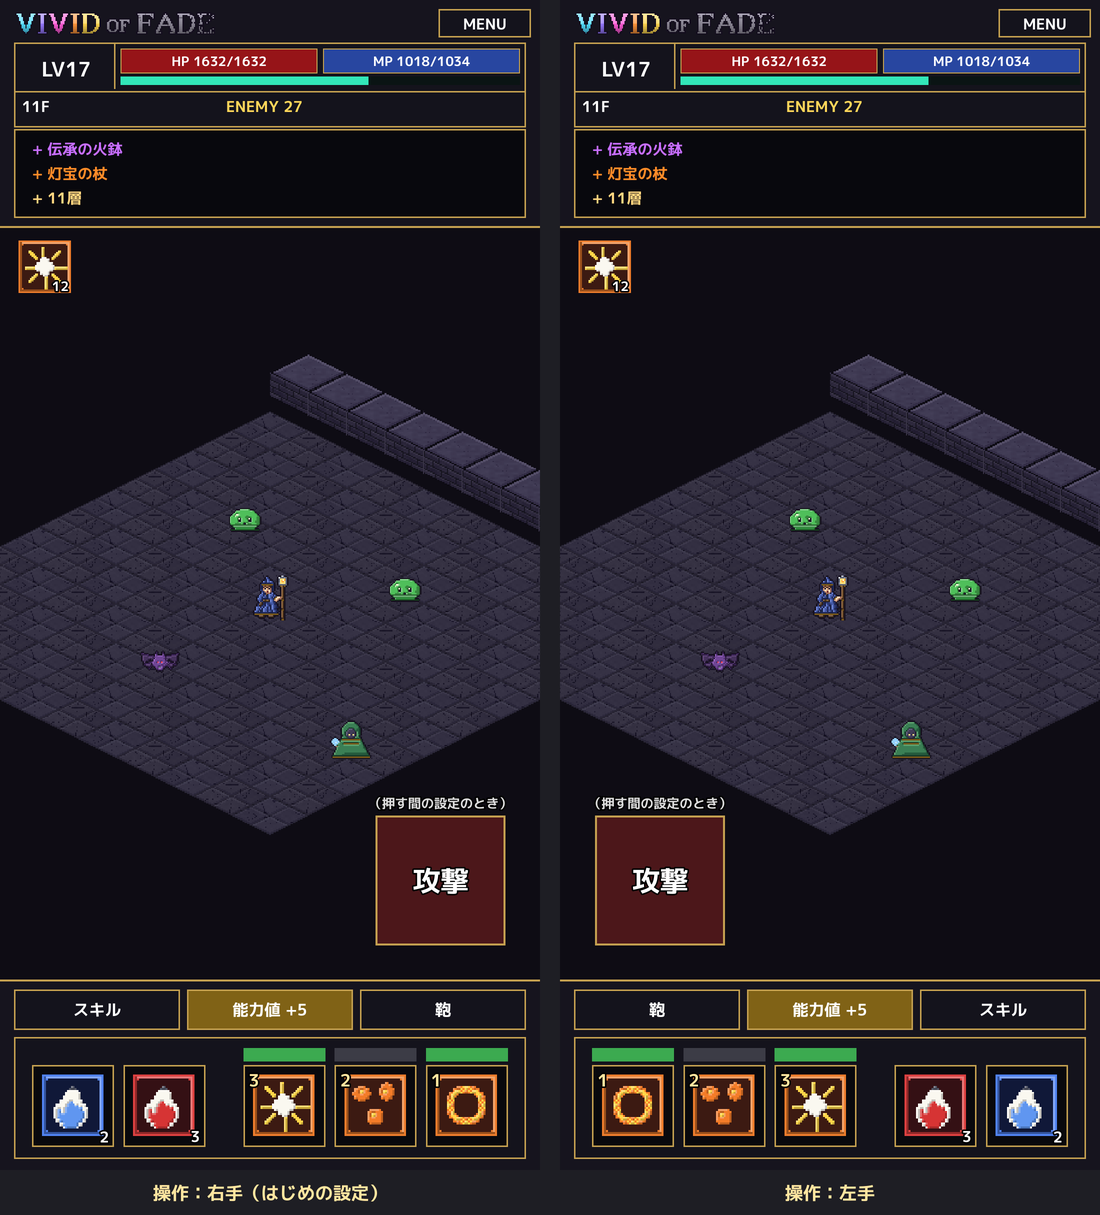
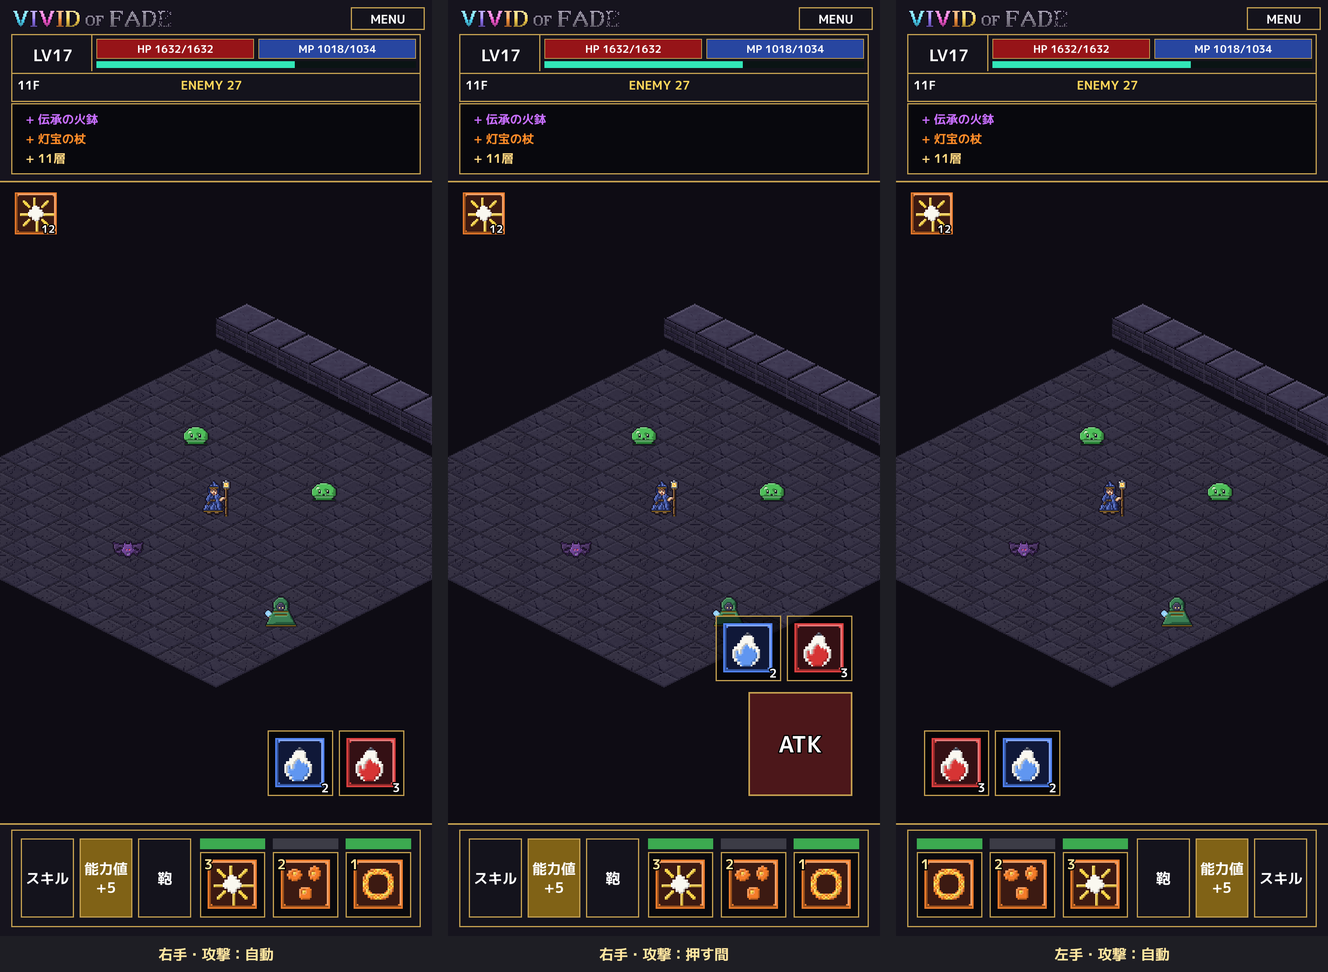
Bottom band as one row: skills on the thumb side, quick buttons opposite
Potions move to just above the band on the thumb side (above the attack
button when attacking is manual). The quick-button row is gone, so the
dungeon view gets taller.

Claude-Session: https://claude.ai/code/session_01XMEo4x59g4Ygvken3HiQNb

diff --git a/Game/Assets/Scripts/UI/Hud.cs b/Game/Assets/Scripts/UI/Hud.cs
@@ -129,20 +129,25 @@ namespace VividOfFade
         }
 
         /// <summary>
-        /// 鞄・能力値・スキルをすぐ開くボタン（GUI 座標）。下の帯の、スキルの段のすぐ上に横に3つ（親指が届く所。MENU を経由しなくてよいように）。
+        /// 鞄・能力値・スキルをすぐ開くボタン（GUI 座標）。スキルと同じ段の、スキルの反対側の空いた所に3つ並べる（スキルに近い方から 鞄・能力値・スキル）。
         /// </summary>
         Rect QuickRect(int i)
         {
-            var sc = ShortcutPanel;
+            var first = SkillRect(0);
+            float s = first.width;
             float gap = BandMargin * 0.8f;
-            float h = Screen.height * 0.034f;
-            float w = (sc.width - gap * 2f) / 3f;
-            int pos = LeftHanded ? i : 2 - i; // 右手なら右から 鞄・能力値・スキル
-            return new Rect(sc.x + pos * (w + gap), sc.y - BandMargin * 0.8f - h, w, h);
+            float left = BandMargin * 2.8f;                                         // 左手のときの並び（スキルが左、ボタンが右）で計算して、右手なら左右を入れかえる
+            float from = left + SkillInfo.Slots * s * (1f + SkillGapK) - s * SkillGapK + gap * 1.5f;
+            float to = Screen.width - left;
+            float w = (to - from - gap * 2f) / 3f;
+            float x = from + i * (w + gap);
+            if (!LeftHanded) x = Screen.width - x - w;
+            float h = s * 1.21f;                                                   // スキルのボタンとオートの帯を合わせた高さ
+            return new Rect(x, Screen.height - (first.y + h), w, h);
         }
 
-        /// <summary>下の帯の上端（GUI 座標）。鞄・能力値・スキルのボタンの段と、ショートカットの区画を含む。</summary>
-        float BottomBandTop => QuickRect(0).y - BandMargin;
+        /// <summary>下の帯の上端（GUI 座標）。ショートカットの区画（スキルと、鞄・能力値・スキルのボタン）を含む。</summary>
+        float BottomBandTop => ShortcutPanel.y - BandMargin * 0.8f;
 
         /// <summary>枠線を描く。</summary>
         public static void Frame(Rect r, Color c, float t = 1f)
@@ -214,22 +219,20 @@ namespace VividOfFade
         public float ViewCenterShift => ((Screen.height - BottomBandTop) - TopBandBottom) / (2f * Screen.height);
 
         /// <summary>
-        /// 下の段のボタン（左からスキル3つ、少しあけて薬2つ）。0〜2 がスキル、3・4 が回復薬・魔力の薬。画面座標（左下原点）。
+        /// スキルのボタン（0〜2）。下の段の、親指の側の端から スキル1・2・3（右手なら右端がスキル1、左手なら左端）。画面座標（左下原点）。
         /// </summary>
         Rect SkillRect(int slot)
         {
-            // ショートカットの区画の幅いっぱいに、スキル3つと薬2つを中央そろえで並べる
-            const float gapK = 0.12f, extraK = 0.35f;     // ボタンどうしの間・スキルと薬の間（ボタンの大きさに対する割合）
+            // 大きさは前の並び（スキル3つと薬2つを横に並べた形）と同じ
             int n = SkillInfo.Slots + 2;
             float avail = Screen.width - BandMargin * 7f;
-            float s = Mathf.Min(avail / (n + (n - 1) * gapK + extraK), Screen.height * 0.09f);
-            float total = s * (n + (n - 1) * gapK + extraK);
-            float x0 = (Screen.width - total) * 0.5f;
-            float extra = slot >= SkillInfo.Slots ? s * extraK : 0f;
-            float x = x0 + slot * s * (1f + gapK) + extra;
-            if (!LeftHanded) x = Screen.width - x - s; // 右手：左右を入れかえる（スキル1が右端＝親指の側、薬が左端）
+            float s = Mathf.Min(avail / (n + (n - 1) * SkillGapK + 0.35f), Screen.height * 0.09f);
+            float x = BandMargin * 2.8f + slot * s * (1f + SkillGapK);
+            if (!LeftHanded) x = Screen.width - x - s;
             return new Rect(x, BandMargin * 2.5f, s, s);
         }
+
+        const float SkillGapK = 0.12f; // スキルのボタンどうしの間（ボタンの大きさに対する割合）
 
         /// <summary>スキルのボタンの上の細い帯（タップでオート／手動を切り替え。緑ならオート）。</summary>
         Rect SkillAutoRect(int slot)
@@ -352,8 +355,20 @@ namespace VividOfFade
             }
         }
 
-        /// <summary>薬のボタン（スキルの右に並ぶ。0 回復薬・1 魔力の薬）。画面座標（左下原点）。</summary>
-        Rect PotionRect(int i) => SkillRect(SkillInfo.Slots + i);
+        /// <summary>
+        /// 薬のボタン（0 回復薬・1 魔力の薬）。画面座標（左下原点）。親指の側の、下の帯のすぐ上（回復薬が外側）。
+        /// 攻撃が「押す間」のときは、攻撃ボタンのすぐ上に置く。
+        /// </summary>
+        Rect PotionRect(int i)
+        {
+            float s = SkillRect(0).width;
+            float m = Screen.height * 0.03f;
+            float gap = BandMargin * 0.8f;
+            float x = m + i * (s + gap);
+            if (!LeftHanded) x = Screen.width - x - s;
+            float y = World != null && !World.AutoAttack ? AttackRect.yMax + gap * 1.5f : Screen.height - BottomBandTop + m;
+            return new Rect(x, y, s, s);
+        }
 
         /// <summary>鞄・能力値・スキルのボタン。ポイントが余っていれば能力値を金色に、鞄が満杯なら鞄を赤くする。</summary>
         void DrawQuickButtons(CharacterData ch, bool pointsLeft, bool bagFull)
@@ -375,7 +390,7 @@ namespace VividOfFade
                 });
                 var st = new GUIStyle(small) { alignment = TextAnchor.MiddleCenter, fontStyle = FontStyle.Bold };
                 st.normal.textColor = Color.white;
-                FitLabel(r, i == 1 && pointsLeft && ch != null ? names[i] + $" +{ch.Points}" : names[i], st);
+                FitLabel(r, i == 1 && pointsLeft && ch != null ? names[i] + $"\n+{ch.Points}" : names[i], st); // ボタンが縦長なので、ポイントは2行目に
                 OrnateFrame(r, FrameGold, Mathf.Max(1f, FrameT * 0.7f));
             }
         }

diff --git a/docs/GAME_PLAN.md b/docs/GAME_PLAN.md
@@ -38,7 +38,7 @@
 | 通常攻撃 | 設定で選ぶ。「自動」：常に明るさの範囲内の敵を狙う／「押している間だけ」：攻撃ボタンを押している間だけ撃つ（狙い方は装備で変わる） |
 | 回避 | 画面をはじく（スティックで移動中に、押したまま指を素早く弾いても回避）。短い無敵時間あり |
 | スキル | 画面下のボタン（最大3つ）。スキルごとに「手動」「オート」を切り替え |
-| 操作の手 | 設定の「操作：右手／左手」（はじめは右手。保存する）。右手：下の段を右から スキル1・2・3、左端に薬（左から魔力の薬・回復薬）、その上の 鞄・能力値・スキル も右から、手動攻撃のボタンは右下。左手：左右を逆にした並び（スキル1が左端、薬が右端、手動攻撃は左下） |
+| 操作の手 | 設定の「操作：右手／左手」（はじめは右手。保存する）。下の帯は1段：親指の側の端から スキル1・2・3、反対側の空いた所に 鞄・能力値・スキル（スキルに近い方から）。薬は親指の側の、下の帯のすぐ上（回復薬が外側）。攻撃が「押す間」のときは、親指の側の下に攻撃ボタンを出し、薬はその上に置く。左手は左右を逆にした並び |
 | 拾う | 近づくだけで自動で吸い寄せる。装備は自動で鞄へ入る |
 | 装備の入れ替え | 一時停止して鞄を開く。今の装備より強いものには矢印を出す |
 
